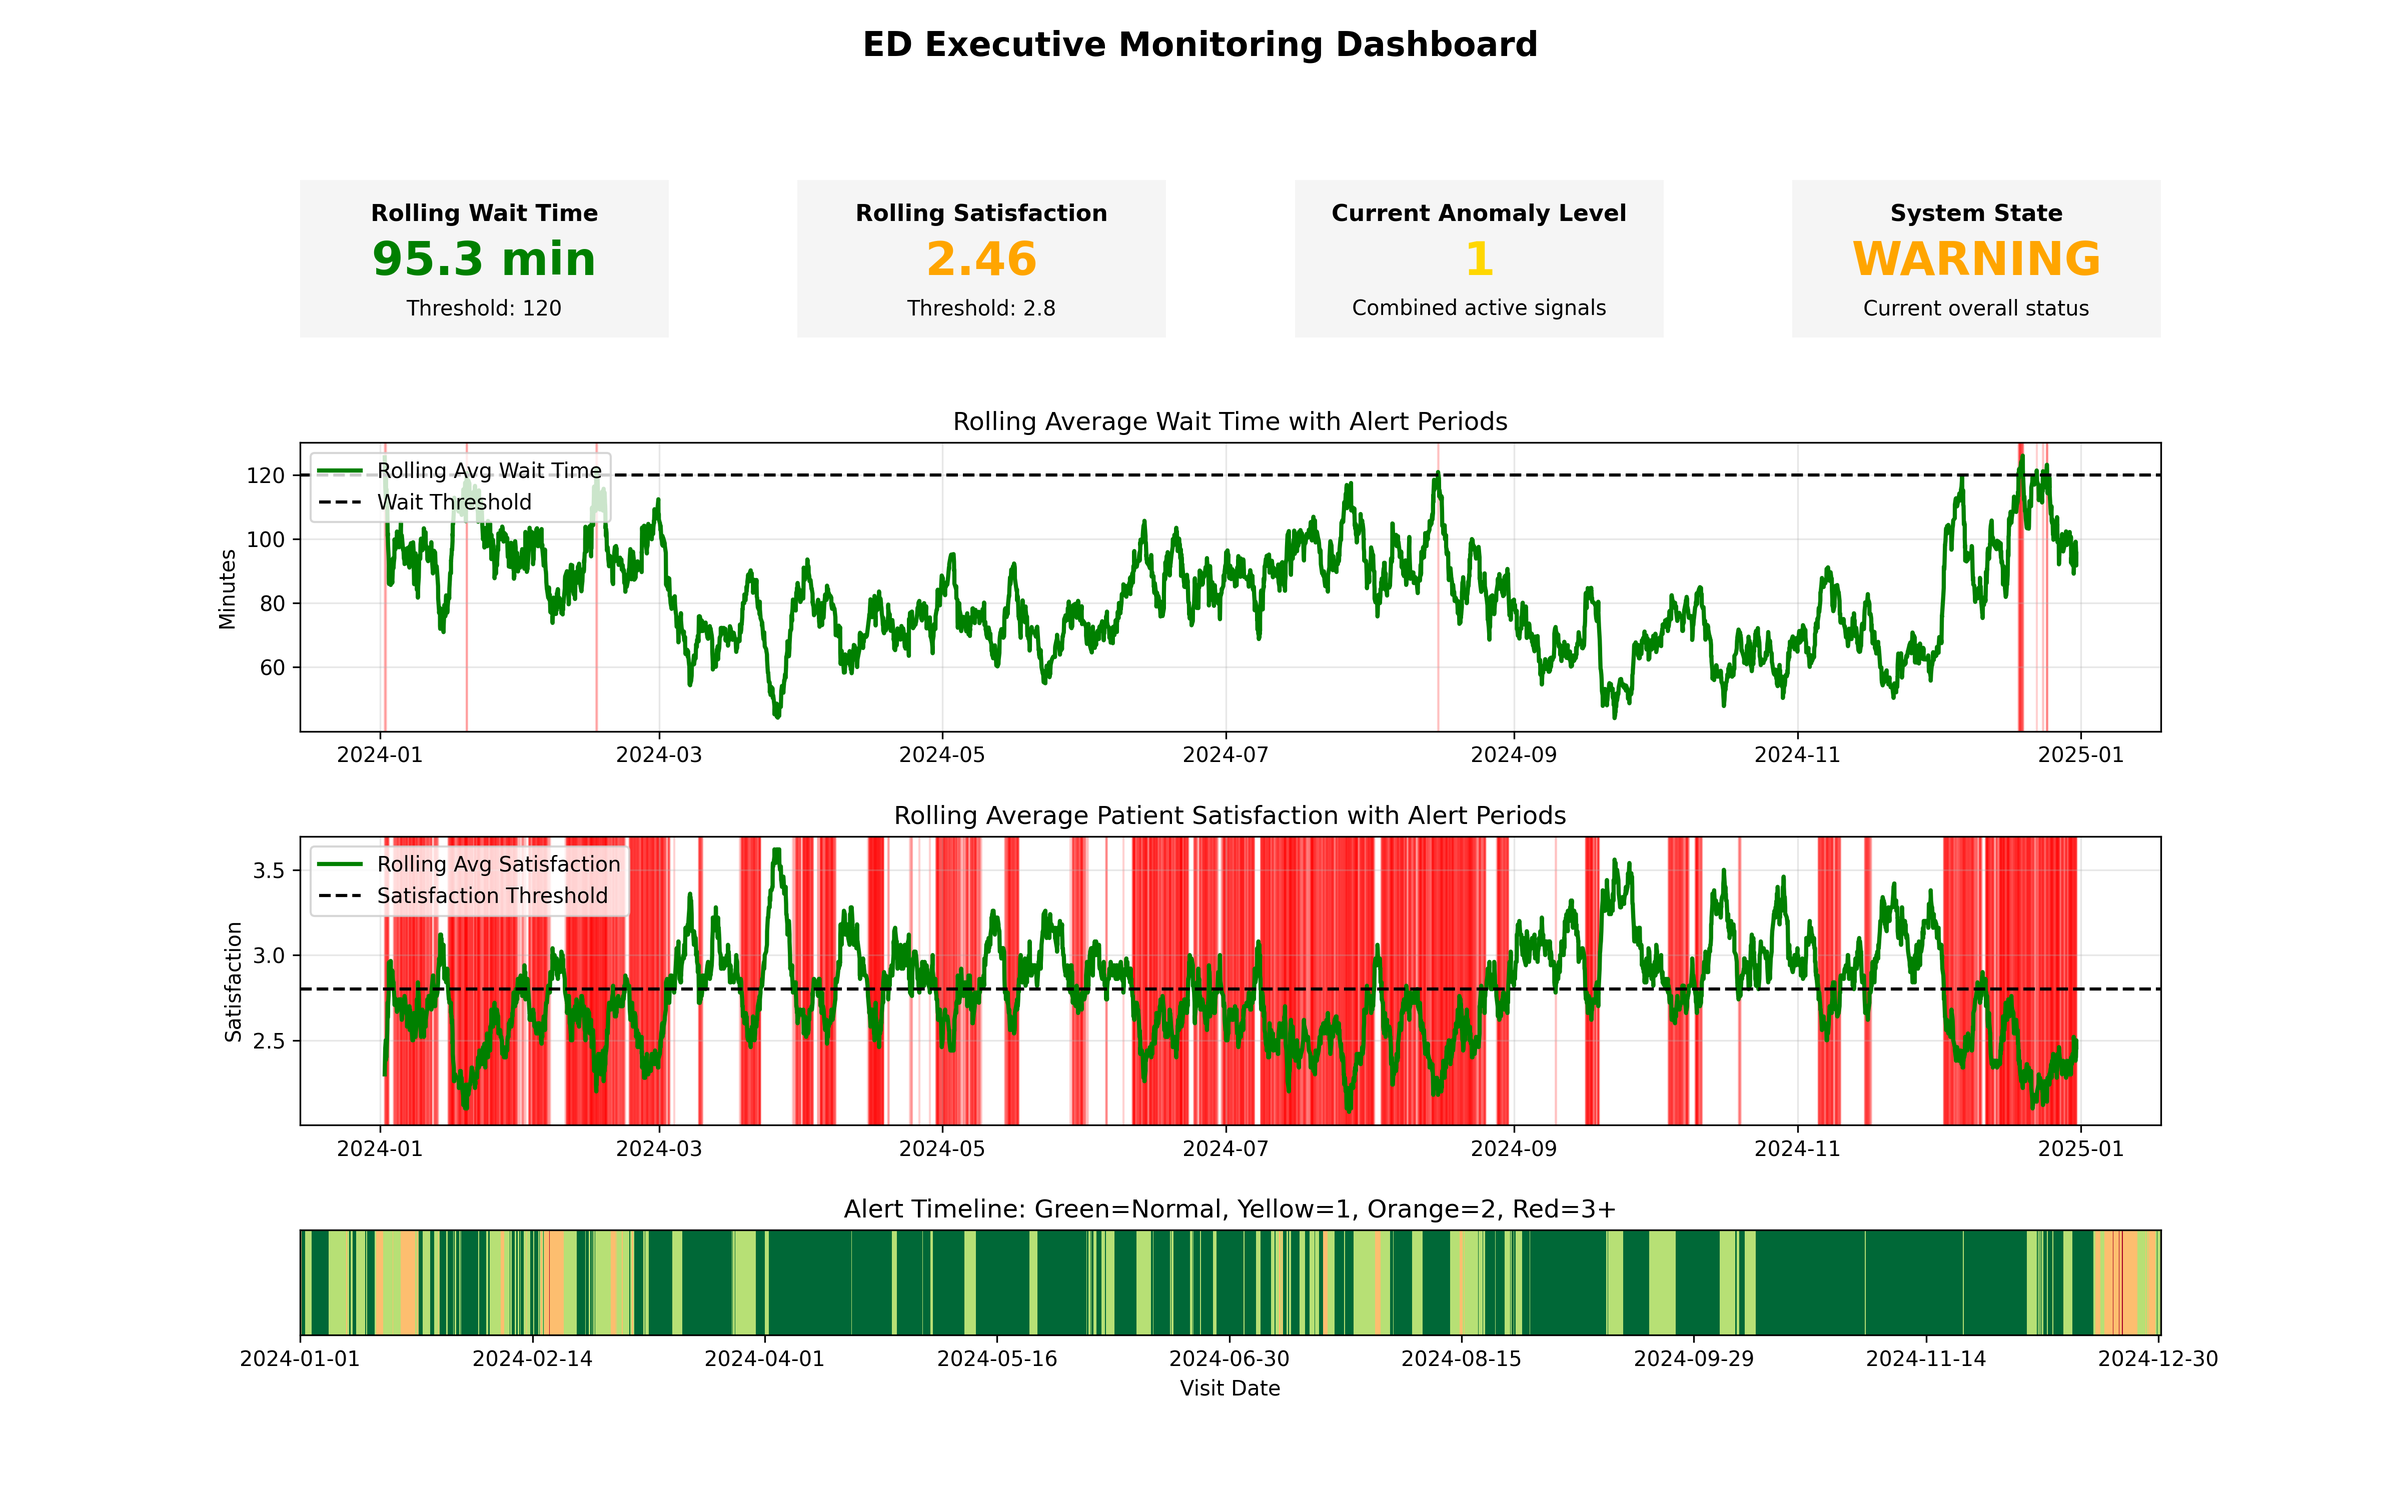
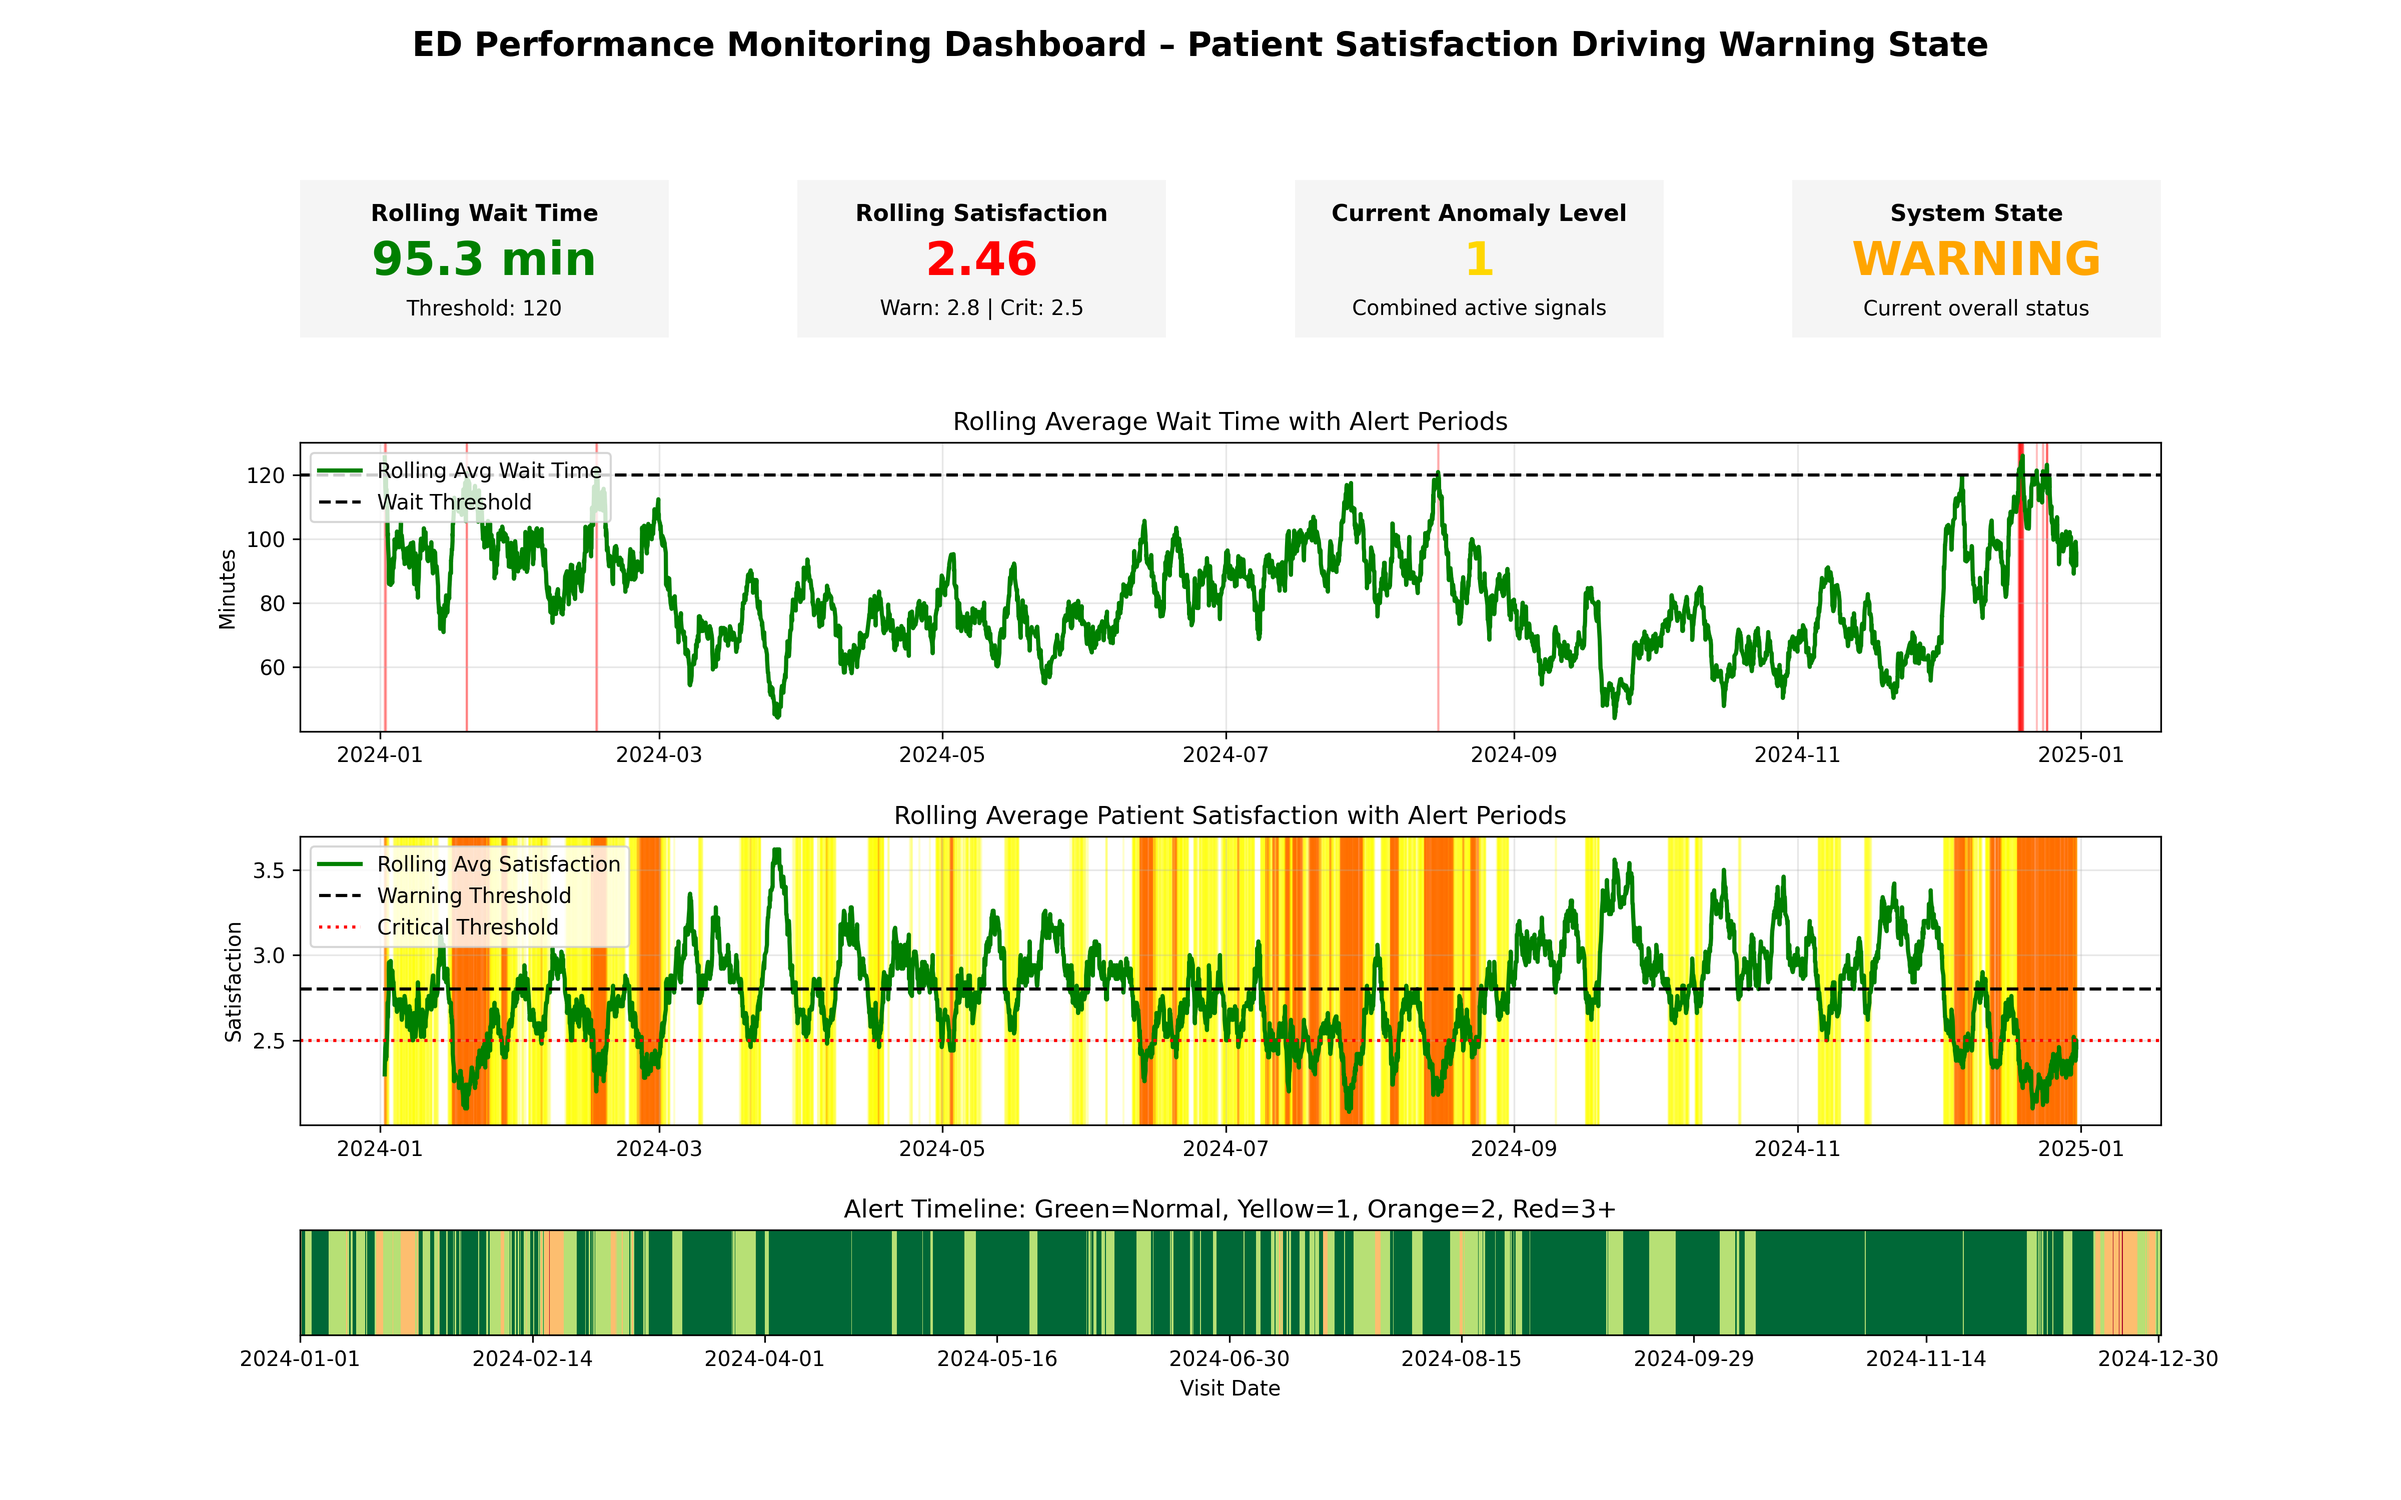
Phase 5: Add ED system visualizations and anomaly monitoring

diff --git a/src/cintel/continuous_intelligence_ER_wait_time_bethspornitz.py b/src/cintel/continuous_intelligence_ER_wait_time_bethspornitz.py
@@ -223,7 +223,8 @@ def main() -> None:
     rolling_satisfaction = dashboard_df["rolling_avg_satisfaction"].to_list()
     anomaly_count = dashboard_df["anomaly_count"].to_list()
 
-    MIN_AVG_SATISFACTION = 2.8
+    WARNING_SATISFACTION: Final[float] = 2.8
+    CRITICAL_SATISFACTION: Final[float] = 2.5
 
     latest_wait = rolling_wait[-1]
     latest_satisfaction = rolling_satisfaction[-1]
@@ -243,19 +244,19 @@ def main() -> None:
         if higher_is_bad:
             if value >= threshold * 1.15:
                 return "red"
-            if value >= threshold:
+            elif value >= threshold:
                 return "orange"
             return "green"
         else:
-            if value <= threshold * 0.85:
+            if value <= threshold * 0.9:
                 return "red"
-            if value <= threshold:
+            elif value <= threshold:
                 return "orange"
             return "green"
 
     wait_color = get_status_color(latest_wait, MAX_AVG_WAIT_TIME, higher_is_bad=True)
     satisfaction_color = get_status_color(
-        latest_satisfaction, MIN_AVG_SATISFACTION, higher_is_bad=False
+        latest_satisfaction, WARNING_SATISFACTION, higher_is_bad=False
     )
 
     if latest_anomalies >= 3:
@@ -336,7 +337,7 @@ def main() -> None:
         ax_kpi2,
         "Rolling Satisfaction",
         f"{latest_satisfaction:.2f}",
-        f"Threshold: {MIN_AVG_SATISFACTION:.1f}",
+        f"Warn: {WARNING_SATISFACTION:.1f} | Crit: {CRITICAL_SATISFACTION:.1f}",
         satisfaction_color,
     )
     draw_kpi_card(
@@ -375,7 +376,7 @@ def main() -> None:
     above_wait = [v > MAX_AVG_WAIT_TIME for v in rolling_wait]
     for i in range(len(dates) - 1):
         if above_wait[i]:
-            ax_wait.axvspan(dates[i], dates[i + 1], color="red", alpha=0.18)
+            ax_wait.axvspan(dates[i], dates[i + 1], color="red", alpha=0.25)
 
     ax_wait.set_title("Rolling Average Wait Time with Alert Periods")
     ax_wait.set_ylabel("Minutes")
@@ -393,17 +394,28 @@ def main() -> None:
         label="Rolling Avg Satisfaction",
     )
     ax_sat.axhline(
-        y=MIN_AVG_SATISFACTION,
+        y=WARNING_SATISFACTION,
         color="black",
         linestyle="--",
         linewidth=1.5,
-        label="Satisfaction Threshold",
+        label="Warning Threshold",
+    )
+    ax_sat.axhline(
+        y=CRITICAL_SATISFACTION,
+        color="red",
+        linestyle=":",
+        linewidth=1.5,
+        label="Critical Threshold",
     )
 
-    below_sat = [v < MIN_AVG_SATISFACTION for v in rolling_satisfaction]
+    below_warning_sat = [v < WARNING_SATISFACTION for v in rolling_satisfaction]
+    below_critical_sat = [v < CRITICAL_SATISFACTION for v in rolling_satisfaction]
+
     for i in range(len(dates) - 1):
-        if below_sat[i]:
-            ax_sat.axvspan(dates[i], dates[i + 1], color="red", alpha=0.18)
+        if below_warning_sat[i]:
+            ax_sat.axvspan(dates[i], dates[i + 1], color="yellow", alpha=0.20)
+        if below_critical_sat[i]:
+            ax_sat.axvspan(dates[i], dates[i + 1], color="red", alpha=0.20)
 
     ax_sat.set_title("Rolling Average Patient Satisfaction with Alert Periods")
     ax_sat.set_ylabel("Satisfaction")
@@ -439,7 +451,11 @@ def main() -> None:
     ax_alert.set_title("Alert Timeline: Green=Normal, Yellow=1, Orange=2, Red=3+")
     ax_alert.set_xlabel("Visit Date")
 
-    plt.suptitle("ED Executive Monitoring Dashboard", fontsize=16, fontweight="bold")
+    plt.suptitle(
+        "ED Performance Monitoring Dashboard – Patient Satisfaction Driving Warning State",
+        fontsize=16,
+        fontweight="bold",
+    )
     plt.tight_layout()
     plt.savefig(ARTIFACTS_DIR / "ed_dashboard_bethspornitz.png", dpi=300)
     plt.close()
@@ -469,7 +485,7 @@ def main() -> None:
         label="Avg Satisfaction",
     )
     plt.axhline(
-        y=MIN_AVG_SATISFACTION,
+        y=WARNING_SATISFACTION,
         color="black",
         linestyle="--",
         linewidth=1.5,
